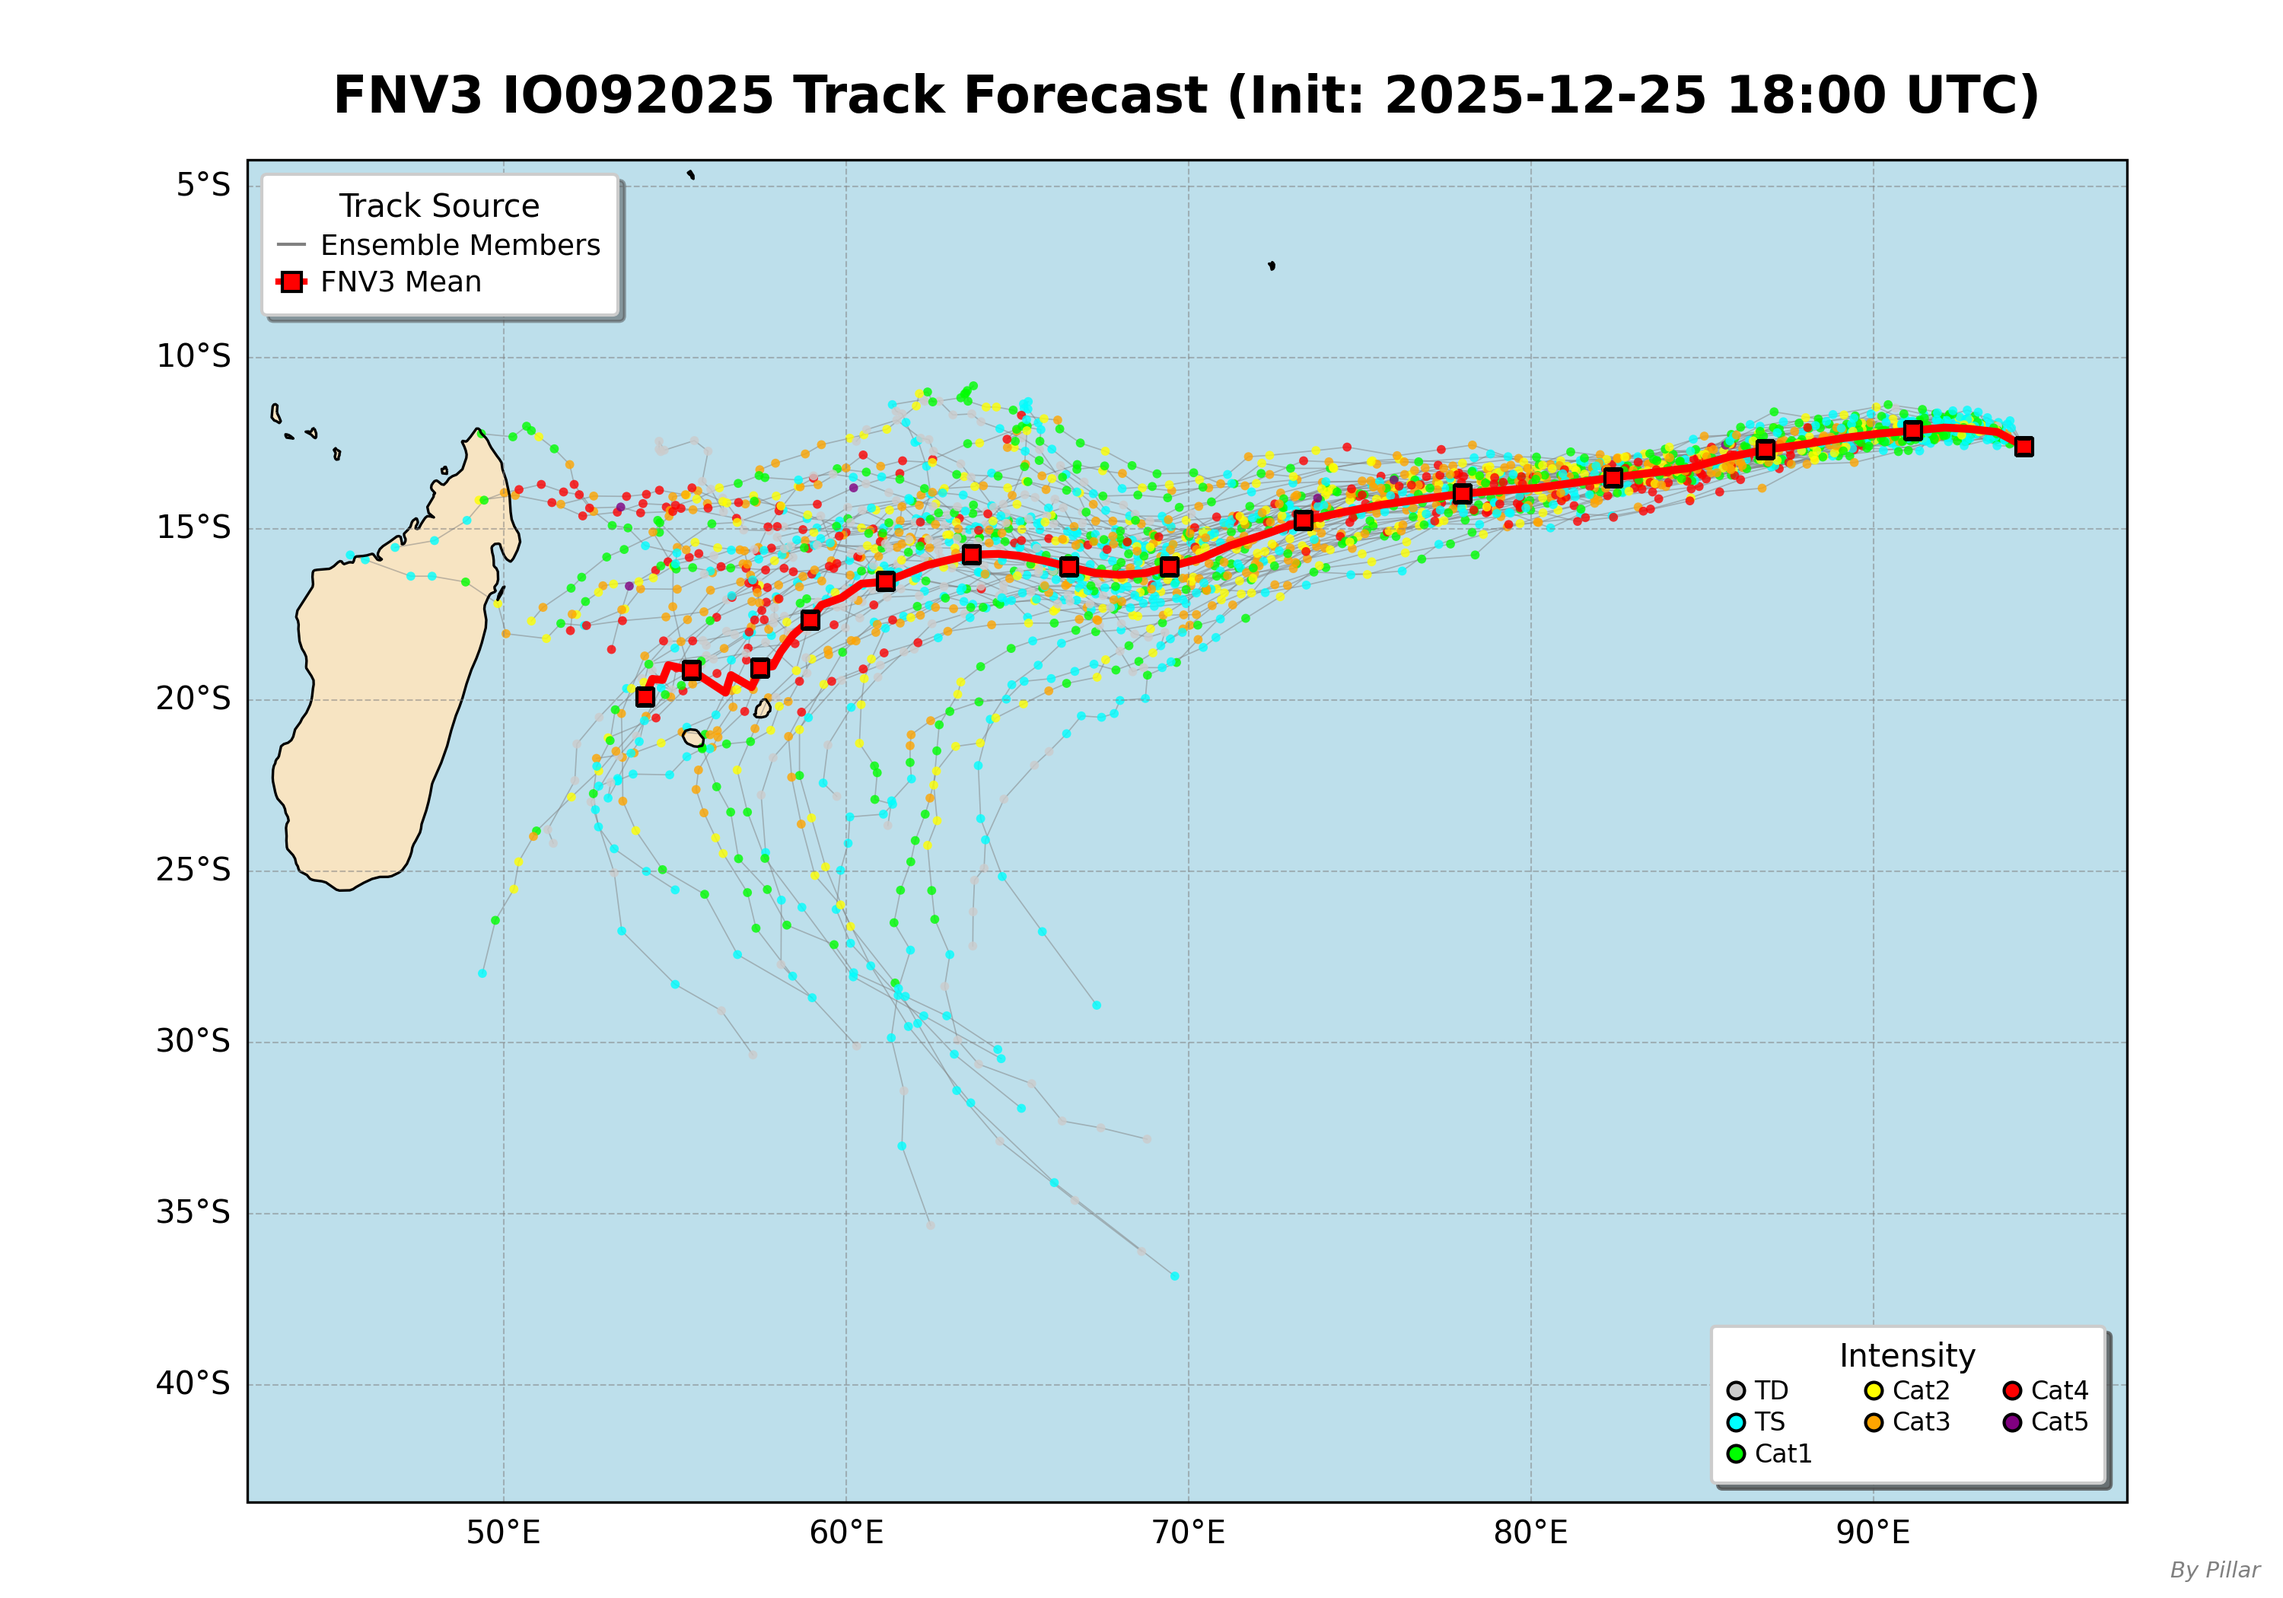
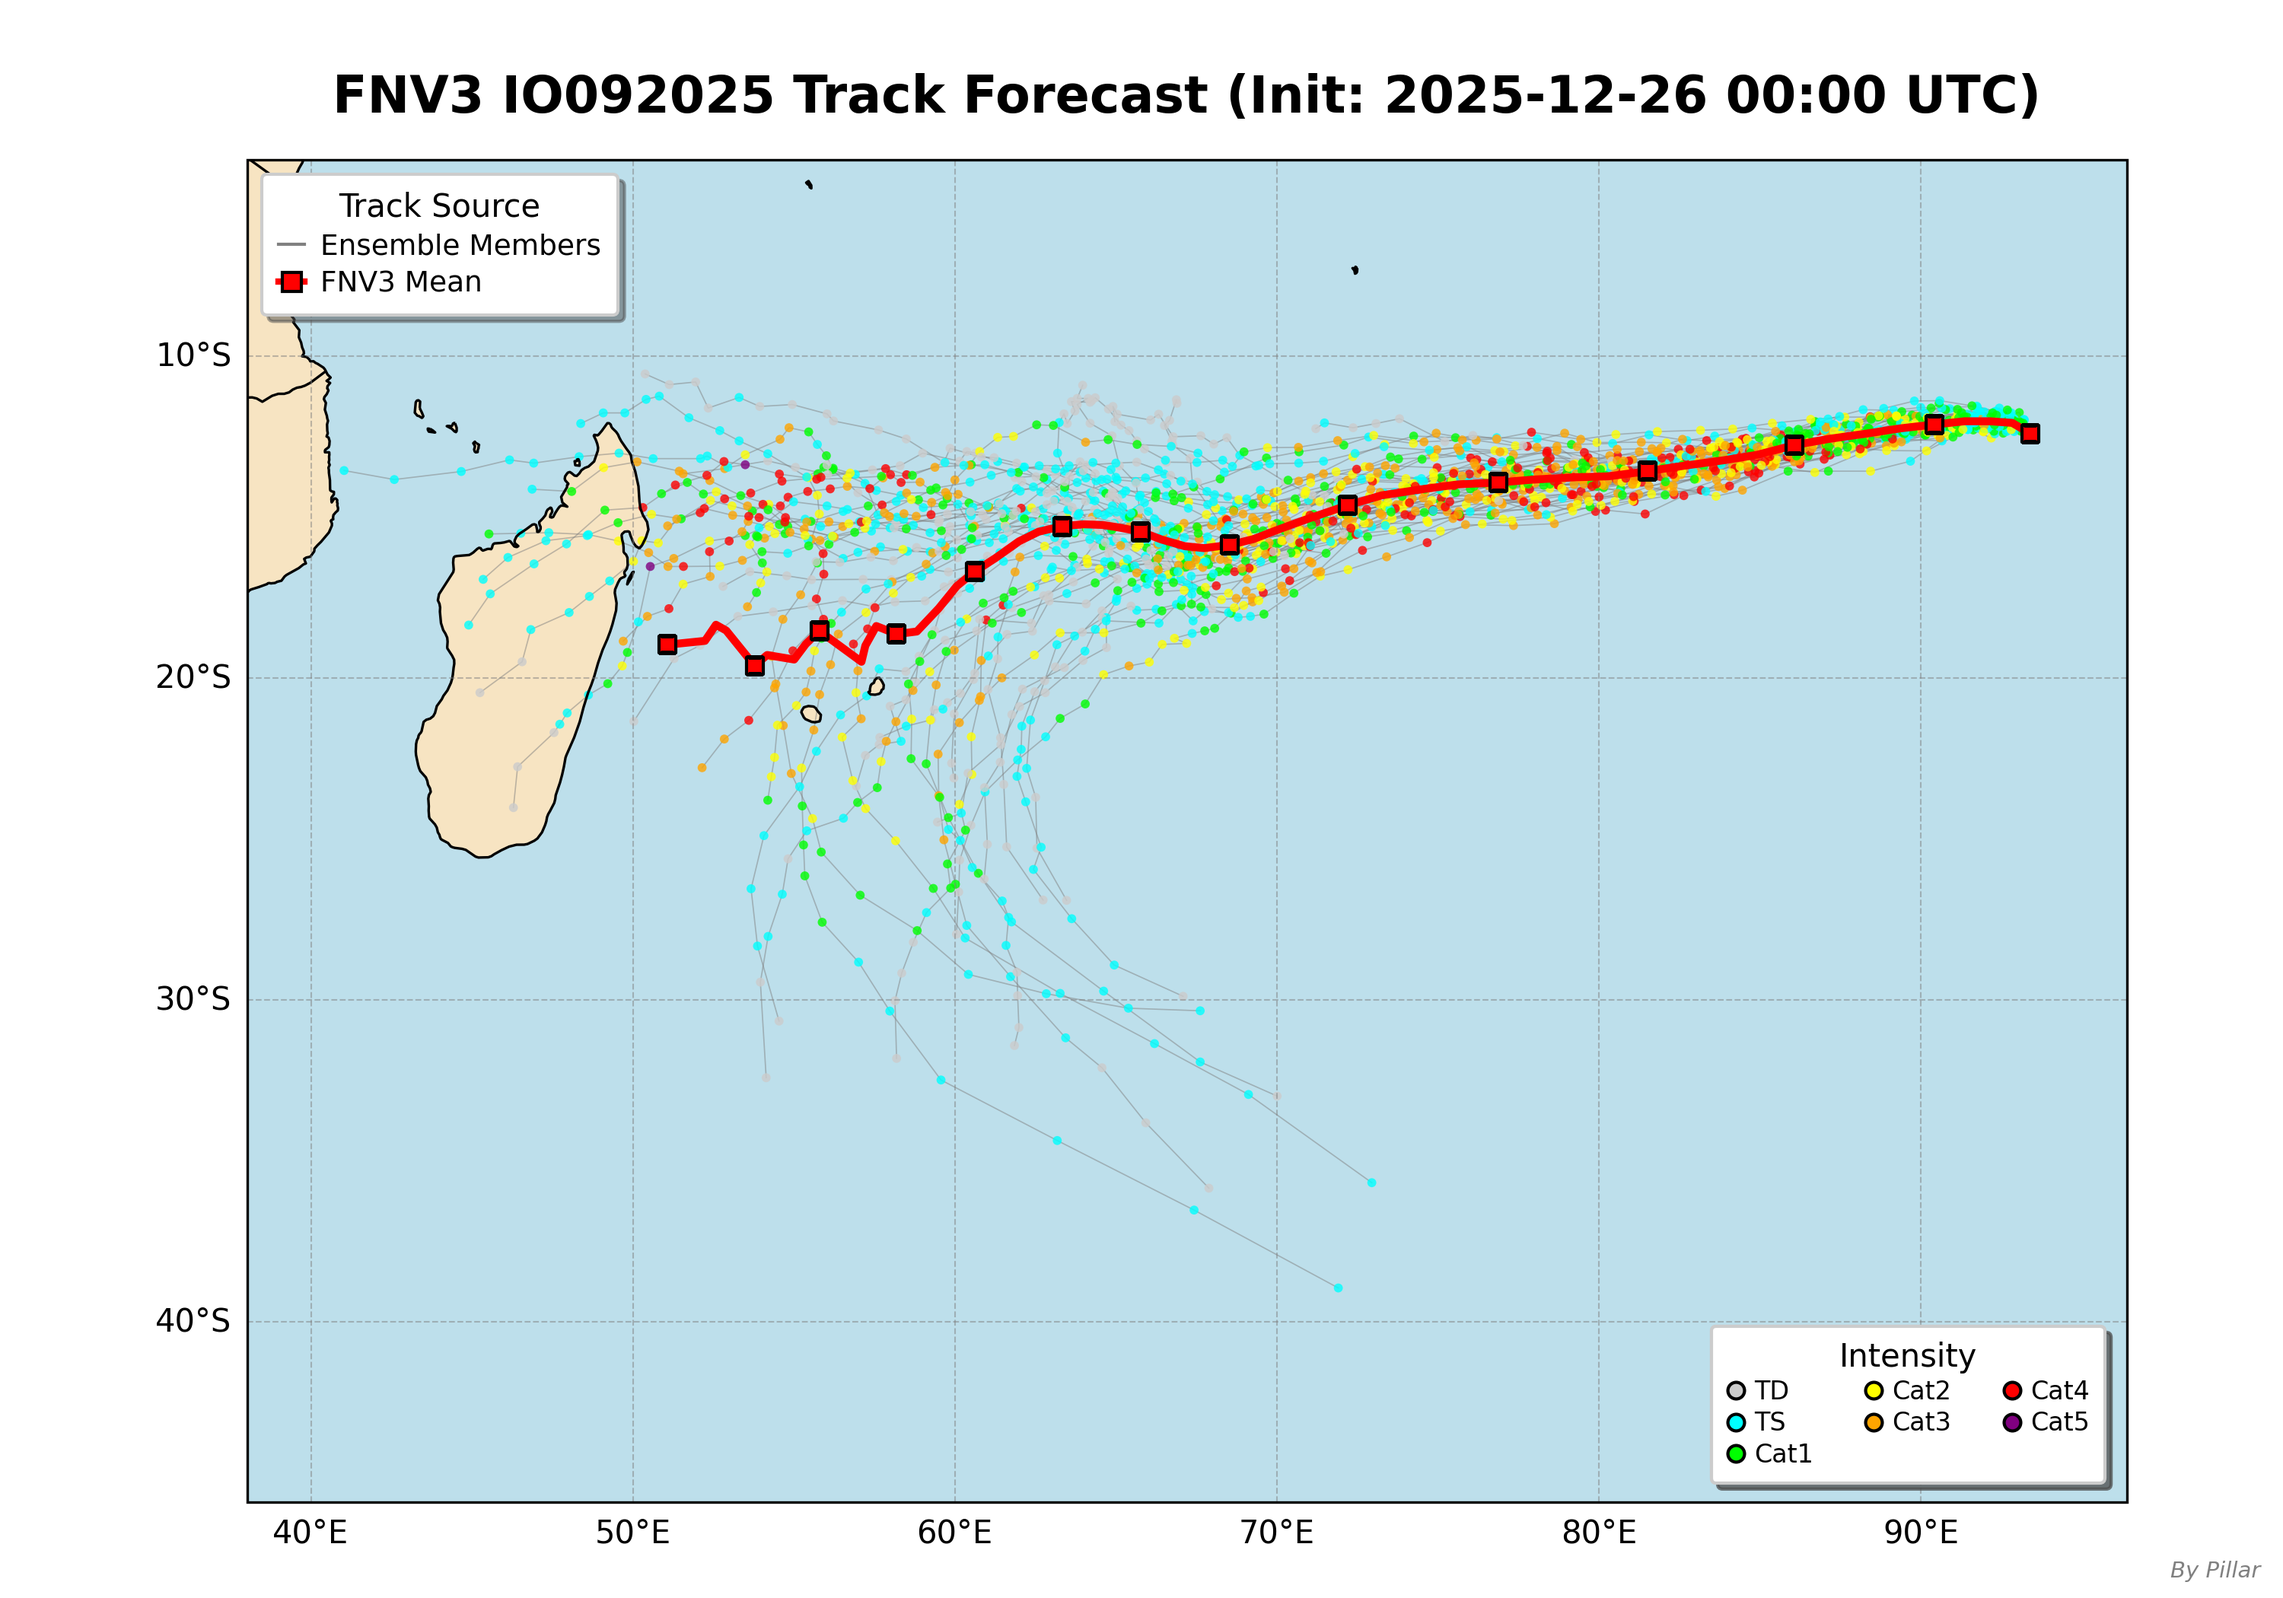
Add files via upload

diff --git a/index.html b/index.html
@@ -196,6 +196,120 @@
             transform: scale(1.02);
         }
 
+        /* Animation Player */
+        .animation-container {
+            background: rgba(255, 255, 255, 0.95);
+            backdrop-filter: blur(10px);
+            border-radius: 20px;
+            padding: 30px;
+            box-shadow: 0 20px 60px rgba(0, 0, 0, 0.3);
+            margin-bottom: 20px;
+        }
+
+        .animation-title {
+            font-size: 1.8em;
+            color: #333;
+            margin-bottom: 20px;
+            font-weight: 700;
+        }
+
+        .animation-player {
+            background: #f5f5f5;
+            border-radius: 15px;
+            padding: 20px;
+            overflow: hidden;
+        }
+
+        .animation-frame {
+            width: 100%;
+            height: auto;
+            border-radius: 10px;
+            box-shadow: 0 10px 30px rgba(0, 0, 0, 0.2);
+            display: block;
+            margin-bottom: 15px;
+        }
+
+        .player-controls {
+            display: flex;
+            align-items: center;
+            gap: 10px;
+            flex-wrap: wrap;
+            background: white;
+            padding: 15px;
+            border-radius: 10px;
+            box-shadow: 0 4px 10px rgba(0, 0, 0, 0.1);
+        }
+
+        .control-btn {
+            background: linear-gradient(135deg, #667eea 0%, #764ba2 100%);
+            color: white;
+            border: none;
+            padding: 10px 18px;
+            border-radius: 8px;
+            font-size: 0.95em;
+            font-weight: 600;
+            cursor: pointer;
+            transition: all 0.3s ease;
+            box-shadow: 0 4px 15px rgba(102, 126, 234, 0.3);
+        }
+
+        .control-btn:hover {
+            transform: translateY(-2px);
+            box-shadow: 0 6px 20px rgba(102, 126, 234, 0.4);
+        }
+
+        .control-btn:active {
+            transform: translateY(0);
+        }
+
+        .progress-bar-container {
+            flex: 1;
+            min-width: 250px;
+            display: flex;
+            align-items: center;
+            gap: 10px;
+        }
+
+        .progress-slider {
+            flex: 1;
+            height: 6px;
+            border-radius: 3px;
+            background: #ddd;
+            outline: none;
+            -webkit-appearance: none;
+            cursor: pointer;
+        }
+
+        .progress-slider::-webkit-slider-thumb {
+            -webkit-appearance: none;
+            appearance: none;
+            width: 16px;
+            height: 16px;
+            border-radius: 50%;
+            background: linear-gradient(135deg, #667eea 0%, #764ba2 100%);
+            cursor: pointer;
+            box-shadow: 0 2px 8px rgba(0, 0, 0, 0.2);
+        }
+
+        .progress-slider::-moz-range-thumb {
+            width: 16px;
+            height: 16px;
+            border-radius: 50%;
+            background: linear-gradient(135deg, #667eea 0%, #764ba2 100%);
+            cursor: pointer;
+            border: none;
+            box-shadow: 0 2px 8px rgba(0, 0, 0, 0.2);
+        }
+
+        .frame-counter {
+            font-size: 0.9em;
+            color: #666;
+            font-weight: 600;
+            white-space: nowrap;
+            min-width: 60px;
+            text-align: right;
+        }
+
         /* Legend */
         .legend {
             background: rgba(255, 255, 255, 0.95);
@@ -525,7 +639,7 @@
                     <div class="subtitle">Real-time FNV3 Ensemble Forecast System</div>
                 </div>
                 <div class="update-badge">
-                    ⏰ Updated: 2025-12-26 09:05:48
+                    ⏰ Updated: 2025-12-26 14:54:45
                 </div>
             </div>
         </header>
@@ -544,15 +658,15 @@
                 <div class="info-grid">
                     <div class="info-item">
                         <div class="info-label">🛰 Current Time</div>
-                        <div class="info-value">18:00 UTC Dec 25, 2025</div>
+                        <div class="info-value">00:00 UTC Dec 26, 2025</div>
                     </div>
                     <div class="info-item">
                         <div class="info-label">📍 Current Position</div>
-                        <div class="info-value">12.6°S, 94.4°E</div>
+                        <div class="info-value">12.4°S, 93.4°E</div>
                     </div>
                     <div class="info-item">
                         <div class="info-label">💨 Maximum Wind</div>
-                        <div class="info-value">45 kt</div>
+                        <div class="info-value">50 kt</div>
                     </div>
                     <div class="info-item">
                         <div class="info-label">🔥 Intensity (Saffir-Simpson)</div>
@@ -563,15 +677,15 @@
                     </div>
                     <div class="info-item">
                         <div class="info-label">📊 Min Central Pressure</div>
-                        <div class="info-value">995 mb</div>
+                        <div class="info-value">993 mb</div>
                     </div>
                     <div class="info-item">
                         <div class="info-label">🎯 Radius of Max Wind</div>
-                        <div class="info-value">70 nm</div>
+                        <div class="info-value">50 nm</div>
                     </div>
                     <div class="info-item" style="grid-column: span 2;">
                         <div class="info-label">🌀 34 kt Wind Radii (NE/SE/SW/NW)</div>
-                        <div class="info-value">35 / 35 / 50 / 50 nm</div>
+                        <div class="info-value">40 / 35 / 50 / 60 nm</div>
                     </div>
                 </div>
 
@@ -611,9 +725,31 @@
                 </div>
             </div>
 
+            
+            <!-- Animation Player -->
+            <div class="animation-container">
+                <div class="animation-title">🎬 Track Evolution Animation</div>
+                <div class="animation-player">
+                    <img id="animation-frame-IO092025" src="animation_frames/frame_0000.png" alt="Animation" class="animation-frame">
+                    <div class="player-controls">
+                        <button class="control-btn" onclick="playAnimation('IO092025')">▶ Play</button>
+                        <button class="control-btn" onclick="pauseAnimation('IO092025')">⏸ Pause</button>
+                        <button class="control-btn" onclick="resetAnimation('IO092025')">⟲ Reset</button>
+                        <div class="progress-bar-container">
+                            <input type="range" id="progress-IO092025" class="progress-slider" min="0" max="52" value="0" 
+                                   oninput="seekFrame('IO092025', this.value)">
+                            <span id="frame-counter-IO092025" class="frame-counter">1/53</span>
+                        </div>
+                    </div>
+                </div>
+                <div style="margin-top: 10px; color: #666; font-size: 0.9em;">
+                    <strong>Controls:</strong> Play/Pause the animation or use the slider to manually seek through frames.
+                </div>
+            </div>
+
             <!-- Map Container -->
             <div class="map-container">
-                <div class="map-title">📍 Track Forecast Map</div>
+                <div class="map-title">📍 Static Track Forecast Map</div>
                 <img src="IO092025_Forecast_Map.png" alt="IO092025 Forecast Map" class="map-image">
                 <div style="margin-top: 15px; color: #666; font-size: 0.95em; line-height: 1.6;">
                     <strong>Note:</strong> Gray lines represent individual ensemble members (spaghetti plot). 
@@ -641,6 +777,104 @@
     </div>
 
     <script>
+        // Animation player state
+        const animationState = {};
+
+        function initAnimation(trackId) {
+            animationState[trackId] = {
+                isPlaying: false,
+                currentFrame: 0,
+                frameFiles: [],
+                animationInterval: null
+            };
+        }
+
+        function loadFrameFiles(trackId, frameDir) {
+            // 從 animation_frames 目錄讀取所有 PNG 檔案
+            const frames = [];
+            // 這個函數會在頁面加載時被呼叫，以動態取得幀列表
+            return frames;
+        }
+
+        function playAnimation(trackId) {
+            if (!animationState[trackId]) initAnimation(trackId);
+            const state = animationState[trackId];
+            
+            if (state.isPlaying) return;
+            state.isPlaying = true;
+
+            const frameImg = document.getElementById(`animation-frame-${trackId}`);
+            const progressSlider = document.getElementById(`progress-${trackId}`);
+            const frameCounter = document.getElementById(`frame-counter-${trackId}`);
+
+            if (!frameImg) return;
+
+            // 取得幀列表（從 HTML 中的 data 屬性）
+            const frameDir = 'animation_frames';
+            
+            state.animationInterval = setInterval(() => {
+                const maxFrames = parseInt(progressSlider.max) + 1;
+                state.currentFrame = (state.currentFrame + 1) % maxFrames;
+                
+                updateFrame(trackId);
+            }, 500); // 2 fps
+        }
+
+        function pauseAnimation(trackId) {
+            if (!animationState[trackId]) return;
+            const state = animationState[trackId];
+            
+            state.isPlaying = false;
+            if (state.animationInterval) {
+                clearInterval(state.animationInterval);
+                state.animationInterval = null;
+            }
+        }
+
+        function resetAnimation(trackId) {
+            pauseAnimation(trackId);
+            if (!animationState[trackId]) initAnimation(trackId);
+            animationState[trackId].currentFrame = 0;
+            updateFrame(trackId);
+        }
+
+        function seekFrame(trackId, frameIndex) {
+            pauseAnimation(trackId);
+            if (!animationState[trackId]) initAnimation(trackId);
+            animationState[trackId].currentFrame = parseInt(frameIndex);
+            updateFrame(trackId);
+        }
+
+        function updateFrame(trackId) {
+            if (!animationState[trackId]) return;
+            const state = animationState[trackId];
+            
+            const frameImg = document.getElementById(`animation-frame-${trackId}`);
+            const progressSlider = document.getElementById(`progress-${trackId}`);
+            const frameCounter = document.getElementById(`frame-counter-${trackId}`);
+
+            if (!frameImg) return;
+
+            const frameNum = String(state.currentFrame).padStart(4, '0');
+            frameImg.src = `animation_frames/frame_${frameNum}.png`;
+            
+            if (progressSlider) progressSlider.value = state.currentFrame;
+            if (frameCounter) {
+                const total = parseInt(progressSlider.max) + 1;
+                frameCounter.textContent = `${state.currentFrame + 1}/${total}`;
+            }
+        }
+
+        // 自動初始化所有動畫播放器
+        document.addEventListener('DOMContentLoaded', function() {
+            // 初始化所有 track_id 的動畫
+            const animationFrames = document.querySelectorAll('[id^="animation-frame-"]');
+            animationFrames.forEach(frameImg => {
+                const trackId = frameImg.id.replace('animation-frame-', '');
+                initAnimation(trackId);
+            });
+        });
+
         // Auto-refresh every 5 minutes
         setTimeout(function(){
             location.reload();
